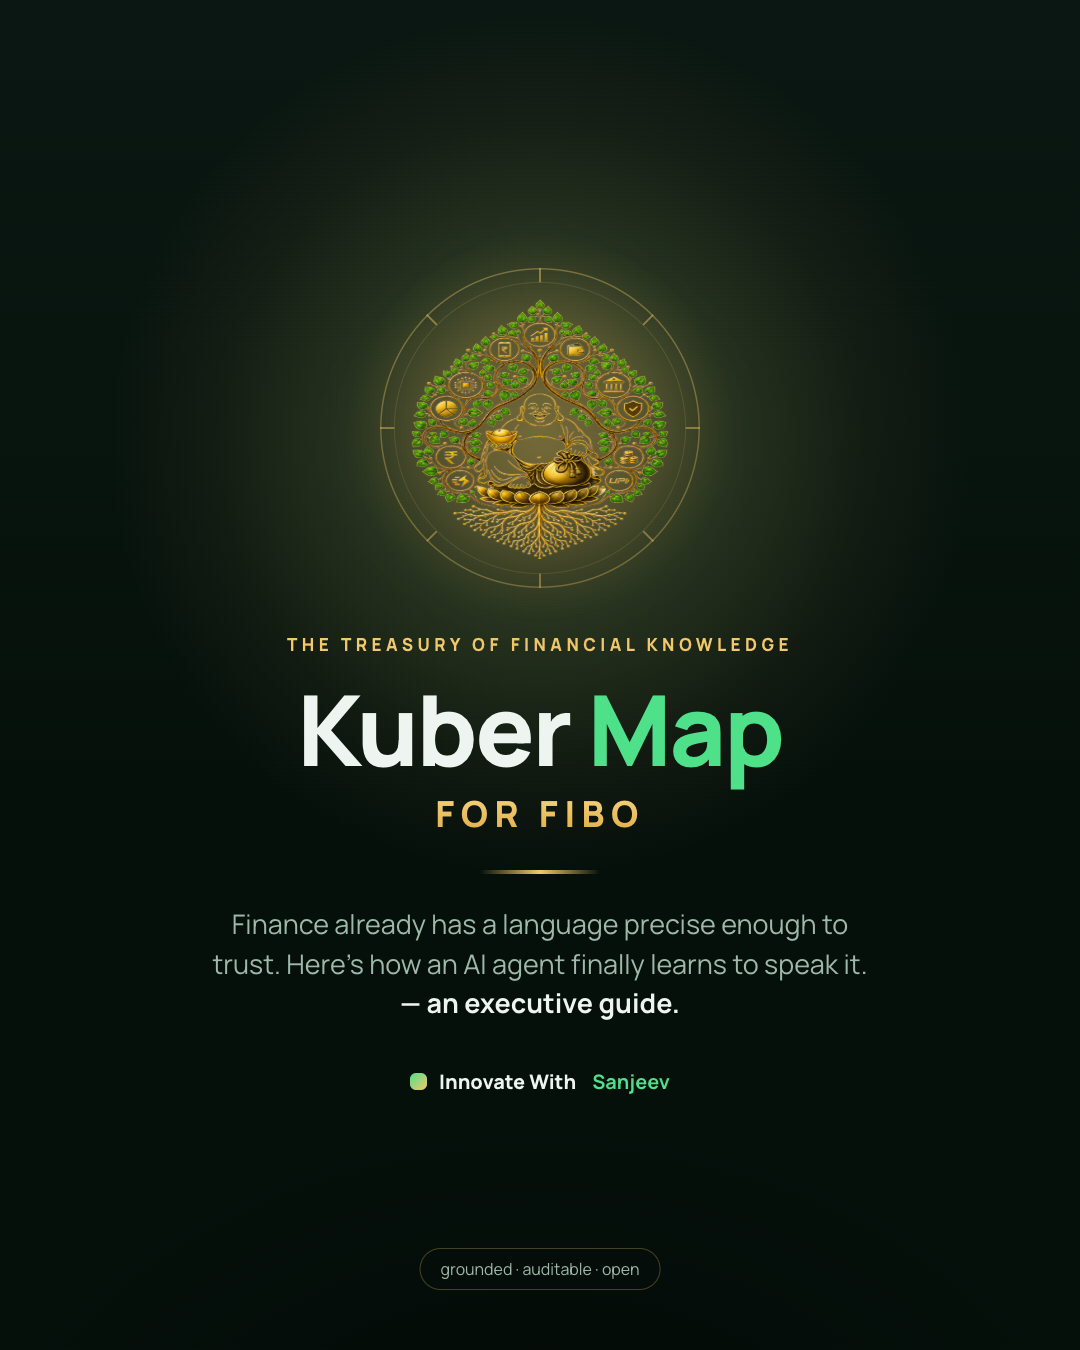
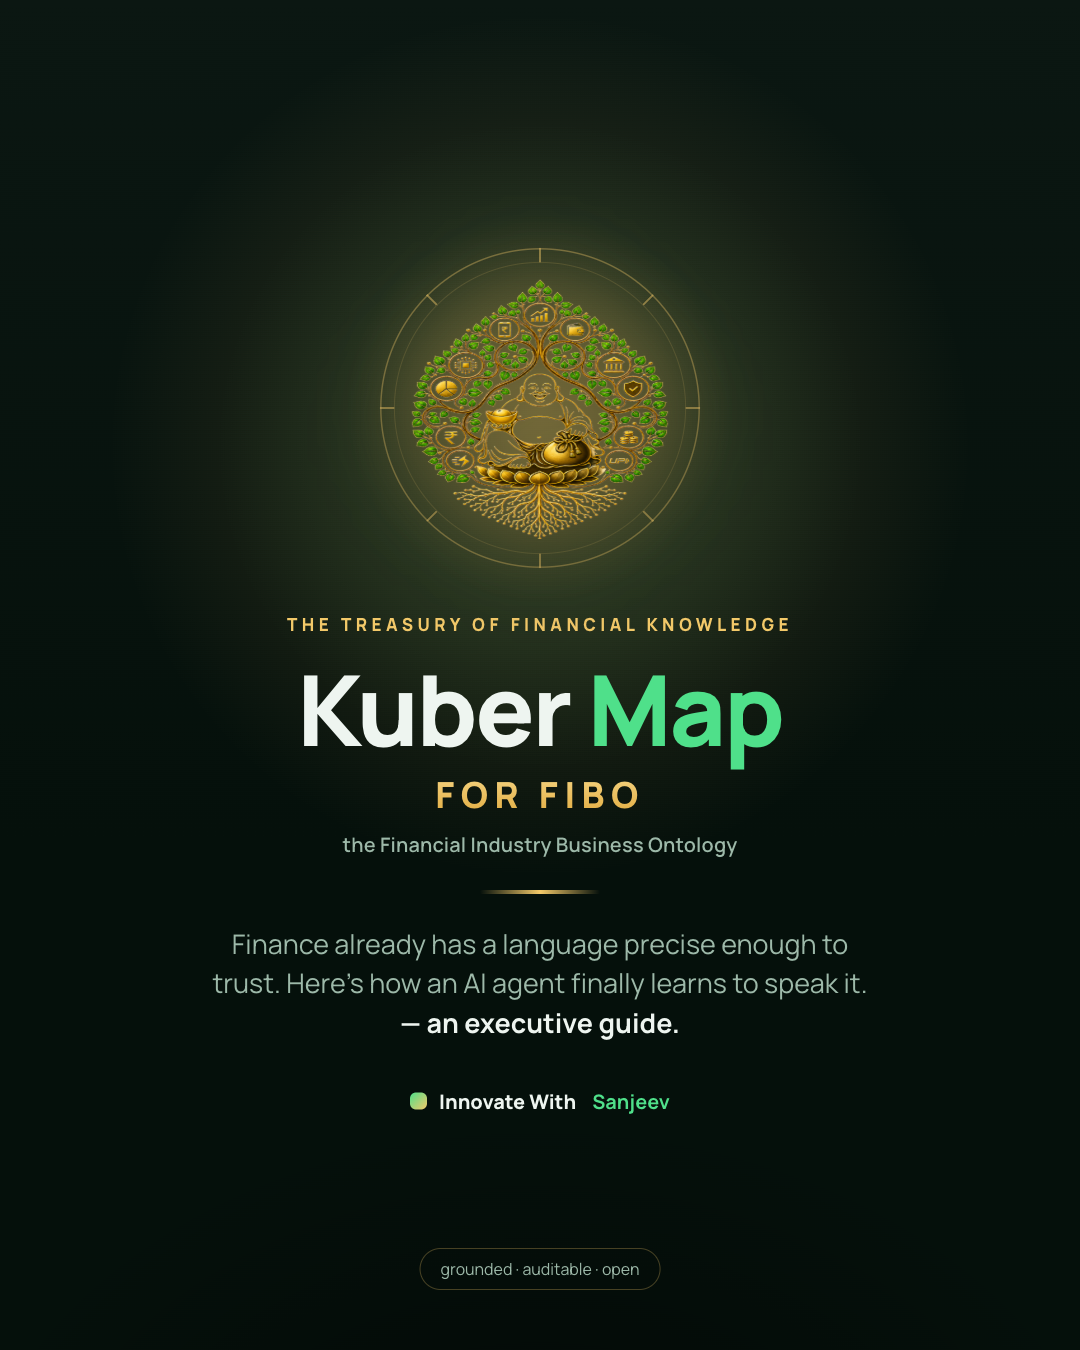
eBook cover: spell out FIBO (Financial Industry Business Ontology) for unfamiliar readers

Changed region(s): [[0.1833, 0.1867, 0.7944, 0.84], [0.3667, 0.2178, 0.3972, 0.2489]]

diff --git a/marketing/ebook.html b/marketing/ebook.html
@@ -73,6 +73,7 @@
   .cover .kicker{ color:#f3c969;}
   .cover h1{ font-size:98px; margin-top:22px; color:#eef5f0;} .cover h1 .g{ color:#4fe08a;}
   .cover .forfibo{ font-size:36px; font-weight:800; letter-spacing:.18em; text-transform:uppercase; margin-top:10px; background:linear-gradient(180deg,#f7d98a,#e0a93c); -webkit-background-clip:text; background-clip:text; -webkit-text-fill-color:transparent;}
+  .cover .fibofull{ font-size:20px; color:#9db9a9; font-weight:600; margin-top:12px; letter-spacing:.01em;}
   .cover .rule{ width:120px; height:4px; border-radius:3px; margin:32px 0 0; background:linear-gradient(90deg,transparent,#f3c969,transparent);}
   .cover .sub{ font-size:27px; color:#9db9a9; margin-top:30px; line-height:1.45; max-width:660px;} .cover .sub b{color:#eef5f0;}
   .cover .by{ margin-top:46px; display:flex; align-items:center; gap:12px; font-size:20px; font-weight:800; color:#eef5f0;}
@@ -234,6 +235,7 @@
     <div class="kicker">The treasury of financial knowledge</div>
     <h1>Kuber <span class="g">Map</span></h1>
     <div class="forfibo">for FIBO</div>
+    <div class="fibofull">the Financial Industry Business Ontology</div>
     <div class="rule"></div>
     <div class="sub">Finance already has a language precise enough to trust. Here's how an AI agent finally learns to speak it. <b>— an executive guide.</b></div>
     <div class="by"><span class="spark"></span>Innovate With&nbsp;<b>Sanjeev</b></div>